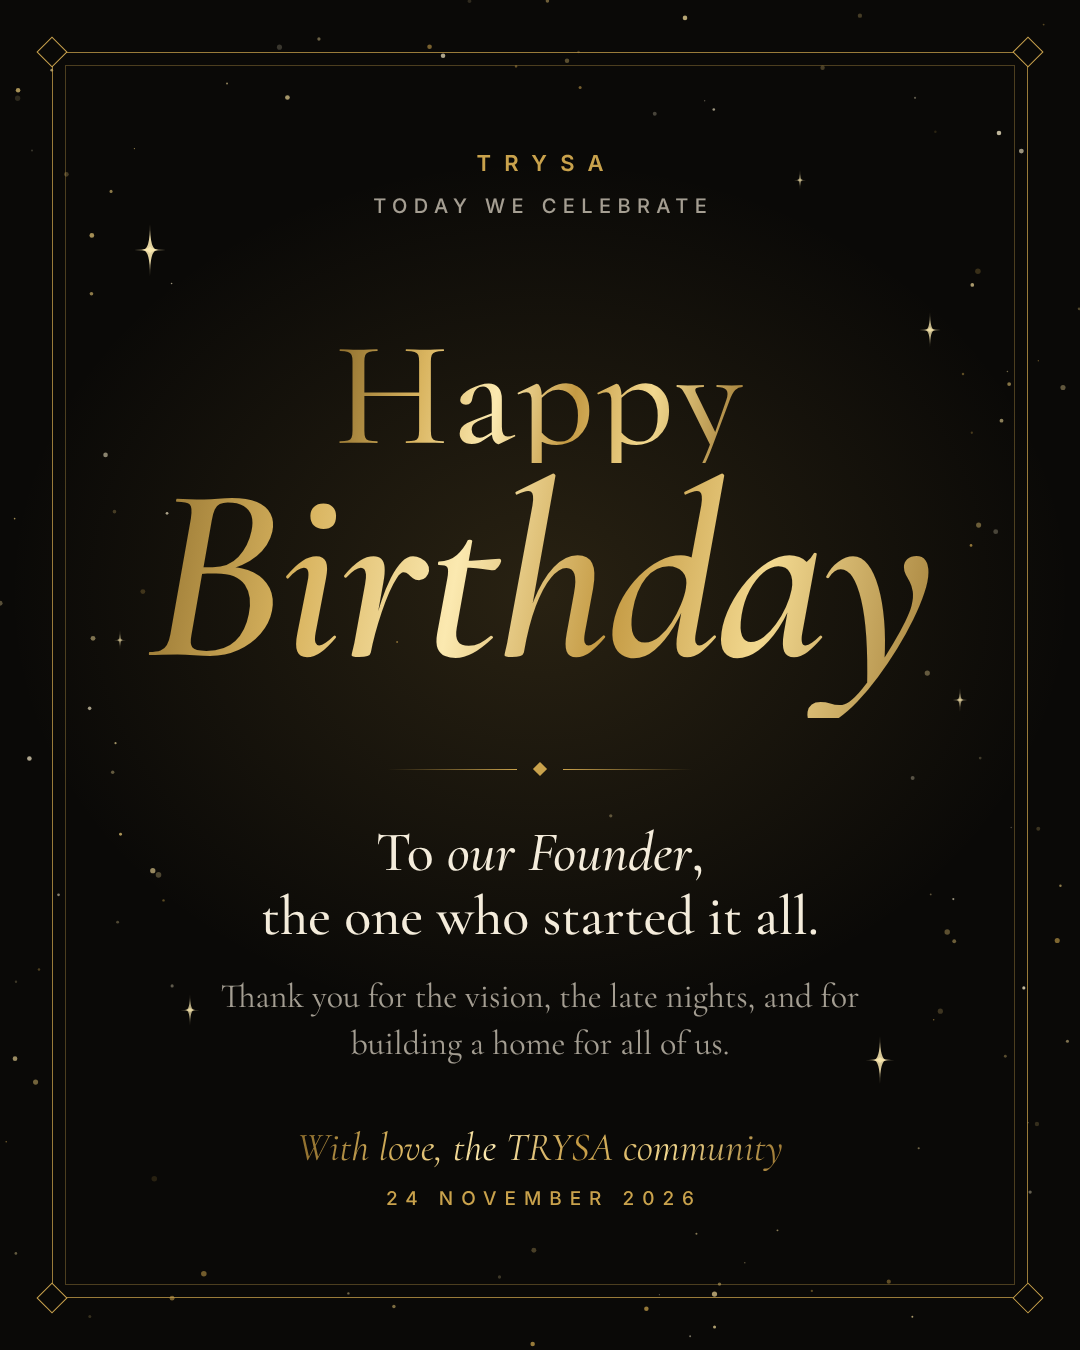
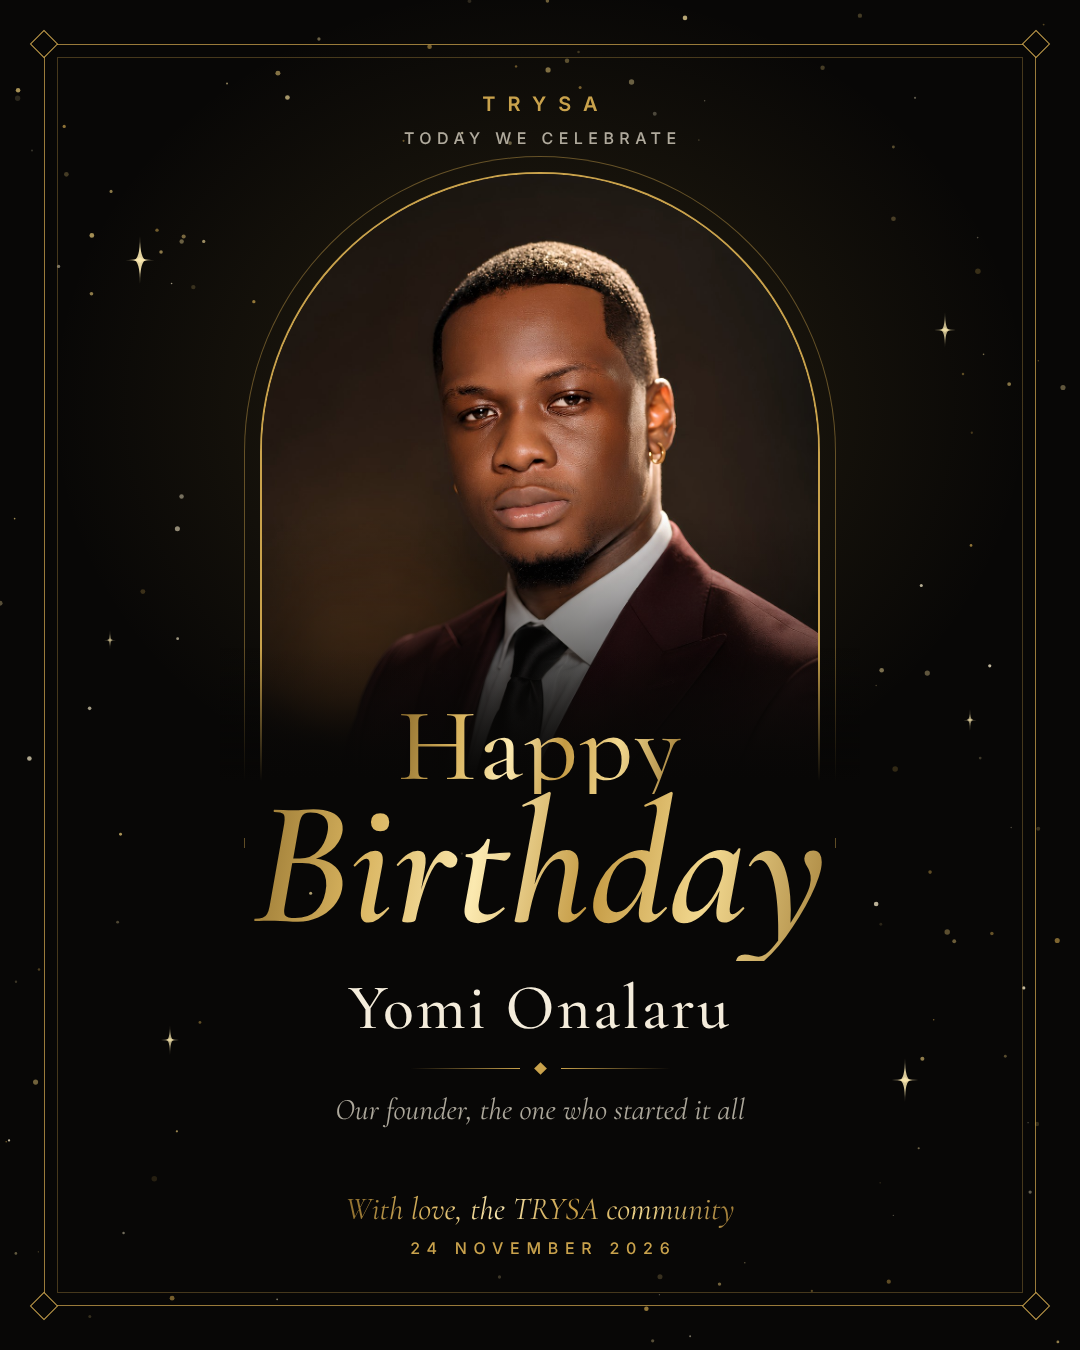
Birthday card and wall: add Yomi Onalaru's name and portrait
Claude-Session: https://claude.ai/code/session_014GBFcrWgCe9wQGpQQwjFXH

diff --git a/birthday/card.html b/birthday/card.html
@@ -4,65 +4,72 @@
   @font-face { font-family: "Cormorant"; src: url("fonts/cg-roman.woff2") format("woff2"); font-weight: 300 700; font-style: normal; }
   @font-face { font-family: "Cormorant"; src: url("fonts/cg-italic.woff2") format("woff2"); font-weight: 300 700; font-style: italic; }
   :root {
-    --black: #0a0907; --ivory: #f4ecdb; --ivory-soft: rgba(244,236,219,.66);
-    --gold: #c9a24c; --gold-hi: #f3dc9a; --gold-lo: #8a6a2a;
+    --black: #080706; --ivory: #f4ecdb; --ivory-soft: rgba(244,236,219,.7);
+    --gold: #c9a24c; --gold-hi: #f3dc9a;
     --foil: linear-gradient(100deg, #8a6a2a 0%, #d9b45f 22%, #fbe9b0 40%, #c49a43 58%, #f2d88f 76%, #9c7731 100%);
   }
   * { margin: 0; box-sizing: border-box; }
   html, body { width: 1080px; height: 1350px; background: var(--black); overflow: hidden; }
   .card { position: relative; width: 1080px; height: 1350px; overflow: hidden; color: var(--ivory);
-    background: radial-gradient(760px 620px at 50% 44%, rgba(201,162,76,.16), transparent 70%), var(--black);
+    background: radial-gradient(700px 600px at 50% 30%, rgba(201,162,76,.16), transparent 70%), var(--black);
     font-family: "Cormorant", Georgia, serif; }
   #dust { position: absolute; inset: 0; }
-  /* double gold frame */
-  .frame { position: absolute; inset: 52px; border: 1.5px solid rgba(201,162,76,.75); }
-  .frame::after { content: ""; position: absolute; inset: 12px; border: 1px solid rgba(201,162,76,.35); }
-  .corner { position: absolute; width: 22px; height: 22px; transform: rotate(45deg); border: 1.5px solid var(--gold); background: var(--black); }
-  .c1 { top: 41px; left: 41px; } .c2 { top: 41px; right: 41px; } .c3 { bottom: 41px; left: 41px; } .c4 { bottom: 41px; right: 41px; }
+  .frame { position: absolute; inset: 44px; border: 1.5px solid rgba(201,162,76,.75); }
+  .frame::after { content: ""; position: absolute; inset: 12px; border: 1px solid rgba(201,162,76,.32); }
+  .corner { position: absolute; width: 20px; height: 20px; transform: rotate(45deg); border: 1.5px solid var(--gold); background: var(--black); }
+  .c1 { top: 34px; left: 34px; } .c2 { top: 34px; right: 34px; } .c3 { bottom: 34px; left: 34px; } .c4 { bottom: 34px; right: 34px; }
 
-  .content { position: absolute; inset: 0; display: flex; flex-direction: column; align-items: center; text-align: center; padding: 150px 120px 140px; }
-  .mark { font-family: "Inter", sans-serif; font-weight: 600; font-size: 22px; letter-spacing: .6em; text-indent: .6em; color: var(--gold); }
-  .eyebrow { margin-top: 18px; font-family: "Inter", sans-serif; font-weight: 500; font-size: 20px; letter-spacing: .32em; text-indent: .32em; text-transform: uppercase; color: var(--ivory-soft); }
+  .top { position: absolute; top: 92px; left: 0; right: 0; text-align: center; }
+  .mark { font-family: "Inter", sans-serif; font-weight: 600; font-size: 20px; letter-spacing: .6em; text-indent: .6em; color: var(--gold); }
+  .eyebrow { margin-top: 12px; font-family: "Inter", sans-serif; font-weight: 500; font-size: 16px; letter-spacing: .34em; text-indent: .34em; text-transform: uppercase; color: var(--ivory-soft); }
+
+  /* arched portrait */
+  .arch-wrap { position: absolute; left: 50%; top: 172px; width: 560px; height: 660px; transform: translateX(-50%); }
+  .arch-line { position: absolute; inset: -16px; border: 1px solid rgba(201,162,76,.45); border-radius: 296px 296px 0 0; border-bottom: 0; }
+  .arch { position: absolute; inset: 0; border-radius: 280px 280px 0 0; overflow: hidden; border: 2px solid var(--gold); border-bottom: 0; }
+  .arch img { width: 100%; height: 100%; object-fit: cover; object-position: 50% 12%; display: block; filter: saturate(.92) contrast(1.04); }
+  .arch::after { content: ""; position: absolute; inset: 0; background: linear-gradient(180deg, transparent 52%, rgba(8,7,6,.55) 72%, var(--black) 97%); }
+  .arch-wrap::after { content: ""; position: absolute; left: -40px; right: -40px; bottom: -6px; height: 190px; background: linear-gradient(180deg, transparent, var(--black) 70%); }
+
+  .bottom { position: absolute; left: 0; right: 0; top: 700px; display: flex; flex-direction: column; align-items: center; text-align: center; }
   .foil { background: var(--foil); -webkit-background-clip: text; background-clip: text; color: transparent; }
-  .happy { margin-top: 110px; font-weight: 500; font-size: 150px; line-height: .9; letter-spacing: .02em; }
-  .birthday { font-style: italic; font-weight: 600; font-size: 250px; line-height: .9; letter-spacing: -.01em; padding: 0 20px 30px; }
-  .rule { display: flex; align-items: center; gap: 18px; margin-top: 46px; }
-  .rule span { width: 130px; height: 1px; background: linear-gradient(90deg, transparent, var(--gold)); }
+  .happy { font-weight: 500; font-size: 104px; line-height: .9; letter-spacing: .02em; }
+  .birthday { font-style: italic; font-weight: 600; font-size: 178px; line-height: .86; padding: 0 20px 20px; margin-top: -6px; }
+  .name { margin-top: 8px; font-size: 64px; font-weight: 500; letter-spacing: .04em; }
+  .rule { display: flex; align-items: center; gap: 16px; margin-top: 18px; }
+  .rule span { width: 110px; height: 1px; background: linear-gradient(90deg, transparent, var(--gold)); }
   .rule span:last-child { background: linear-gradient(90deg, var(--gold), transparent); }
-  .rule i { width: 10px; height: 10px; transform: rotate(45deg); background: var(--gold); }
-  .to { margin-top: 46px; font-size: 56px; line-height: 1.15; font-weight: 500; }
-  .to em { font-style: italic; }
-  .msg { margin-top: 24px; max-width: 700px; font-size: 34px; line-height: 1.4; color: var(--ivory-soft); }
-  .foot { margin-top: auto; display: flex; flex-direction: column; align-items: center; gap: 16px; }
-  .sig { font-style: italic; font-size: 40px; }
-  .date { font-family: "Inter", sans-serif; font-weight: 500; font-size: 19px; letter-spacing: .42em; text-indent: .42em; text-transform: uppercase; color: var(--gold); }
+  .rule i { width: 9px; height: 9px; transform: rotate(45deg); background: var(--gold); }
+  .role { margin-top: 18px; font-style: italic; font-size: 30px; color: var(--ivory-soft); }
+  .foot { position: absolute; left: 0; right: 0; bottom: 92px; display: flex; flex-direction: column; align-items: center; gap: 10px; }
+  .sig { font-style: italic; font-size: 32px; }
+  .date { font-family: "Inter", sans-serif; font-weight: 500; font-size: 16px; letter-spacing: .42em; text-indent: .42em; text-transform: uppercase; color: var(--gold); }
 </style></head>
 <body><div class="card">
   <canvas id="dust" width="1080" height="1350"></canvas>
   <div class="frame"></div>
   <div class="corner c1"></div><div class="corner c2"></div><div class="corner c3"></div><div class="corner c4"></div>
-  <div class="content">
-    <div class="mark">TRYSA</div>
-    <div class="eyebrow">Today we celebrate</div>
+  <div class="top"><div class="mark">TRYSA</div><div class="eyebrow">Today we celebrate</div></div>
+  <div class="arch-wrap"><div class="arch-line"></div><div class="arch"><img src="yomi-portrait.jpg" alt=""></div></div>
+  <div class="bottom">
     <div class="happy foil">Happy</div>
     <div class="birthday foil">Birthday</div>
+    <div class="name">Yomi Onalaru</div>
     <div class="rule"><span></span><i></i><span></span></div>
-    <div class="to">To <em>our Founder</em>,<br>the one who started it all.</div>
-    <div class="msg">Thank you for the vision, the late nights, and for building a home for all of us.</div>
-    <div class="foot">
-      <div class="sig foil">With love, the TRYSA community</div>
-      <div class="date">24 November 2026</div>
-    </div>
+    <div class="role">Our founder, the one who started it all</div>
+  </div>
+  <div class="foot">
+    <div class="sig foil">With love, the TRYSA community</div>
+    <div class="date">24 November 2026</div>
   </div>
 </div>
 <script>
-  // Sparse gold dust and a few four-point glints, kept away from the text column.
   const c = document.getElementById('dust'), x = c.getContext('2d');
   let s = 11; const r = () => (s = (s * 16807) % 2147483647) / 2147483647;
   const golds = ['#f3dc9a', '#c9a24c', '#e8c977', '#fff3cf'];
-  for (let i = 0; i < 260; i++) {
+  for (let i = 0; i < 240; i++) {
     const px = r() * 1080, py = r() * 1350;
-    if (Math.abs(px - 540) < 360 && py > 120 && py < 1230 && r() < .97) continue;
+    if (Math.abs(px - 540) < 330 && py > 150 && py < 1250 && r() < .97) continue;
     x.globalAlpha = .15 + r() * .6; x.fillStyle = golds[(r() * 4) | 0];
     x.beginPath(); x.arc(px, py, .6 + r() * 2.2, 0, Math.PI * 2); x.fill();
   }
@@ -75,6 +82,6 @@
     x.quadraticCurveTo(px, py, px + size * .6, py); x.quadraticCurveTo(px, py, px, py + size * .16);
     x.quadraticCurveTo(px, py, px - size * .6, py); x.fill();
   }
-  [[150,250,26,.9],[930,330,18,.75],[880,1060,24,.85],[190,1010,16,.7],[960,700,12,.6],[120,640,10,.5],[800,180,10,.55]].forEach(g => glint(...g));
+  [[140,260,24,.9],[945,330,18,.75],[905,1080,22,.85],[170,1040,15,.7],[970,720,11,.6],[110,640,10,.5]].forEach(g => glint(...g));
 </script>
 </body></html>

diff --git a/birthday/landing/index.html b/birthday/landing/index.html
@@ -173,8 +173,8 @@ h2 em { font-weight: 600; }
         <div class="meta"><span class="label">The TRYSA community</span><span class="date">Monday, 24 November 2026</span></div>
       </div>
       <h1><span class="l1 foil">Happy</span><span class="l2 foil">Birthday</span></h1>
-      <div class="to"><span>to <span id="founder-name">our Founder</span></span></div>
-      <p class="lede">Today we celebrate the person who started TRYSA. Thank you for the vision, the late nights, and for building a home for all of us.</p>
+      <div class="to"><span>to <span id="founder-name">Yomi Onalaru</span></span></div>
+      <p class="lede">Today we celebrate our founder, the person who started TRYSA. Yomi, thank you for the vision, the late nights, and for building a home for all of us.</p>
       <div class="actions">
         <a class="btn btn-gold" href="#wall">Leave a wish</a>
         <button class="btn btn-line" id="save-card" type="button">Save the card</button>
@@ -184,7 +184,7 @@ h2 em { font-weight: 600; }
     <div class="stage" id="stage">
       <div class="halo" aria-hidden="true"></div>
       <div class="card3d" id="card3d">
-        <img src="card.png" alt="Black and gold birthday card: Happy Birthday to our Founder, the one who started it all. With love, the TRYSA community, 24 November 2026." width="1080" height="1350">
+        <img src="card.png" alt="Black and gold birthday card with Yomi Onalaru's portrait in a gold arch: Happy Birthday Yomi Onalaru, our founder, the one who started it all. With love, the TRYSA community, 24 November 2026." width="1080" height="1350">
         <div class="glare" aria-hidden="true"></div>
       </div>
       <span class="tag label">From all of us</span>
@@ -207,7 +207,7 @@ h2 em { font-weight: 600; }
 
     <form class="composer" id="composer" hidden>
       <label for="wish-text" id="composer-label">Write your wish</label>
-      <textarea id="wish-text" maxlength="400" placeholder="Happy birthday! Thank you for…"></textarea>
+      <textarea id="wish-text" maxlength="400" placeholder="Happy birthday, Yomi! Thank you for…"></textarea>
       <div class="composer-row">
         <div class="swatches" role="group" aria-label="Paper"><span class="lbl">Paper</span></div>
         <div class="composer-actions">
@@ -296,7 +296,7 @@ h2 em { font-weight: 600; }
 
     const notes = $("notes"); notes.replaceChildren();
     if (!list.length) {
-      if (s.db && s.loaded) { const e = el("div", "empty"); e.appendChild(el("strong", null, "The first page is yours")); e.appendChild(el("span", null, "No wishes yet. Write the first one for the founder.")); notes.appendChild(e); }
+      if (s.db && s.loaded) { const e = el("div", "empty"); e.appendChild(el("strong", null, "The first page is yours")); e.appendChild(el("span", null, "No wishes yet. Write the first one for Yomi.")); notes.appendChild(e); }
       return;
     }
     list.forEach((w, i) => {
